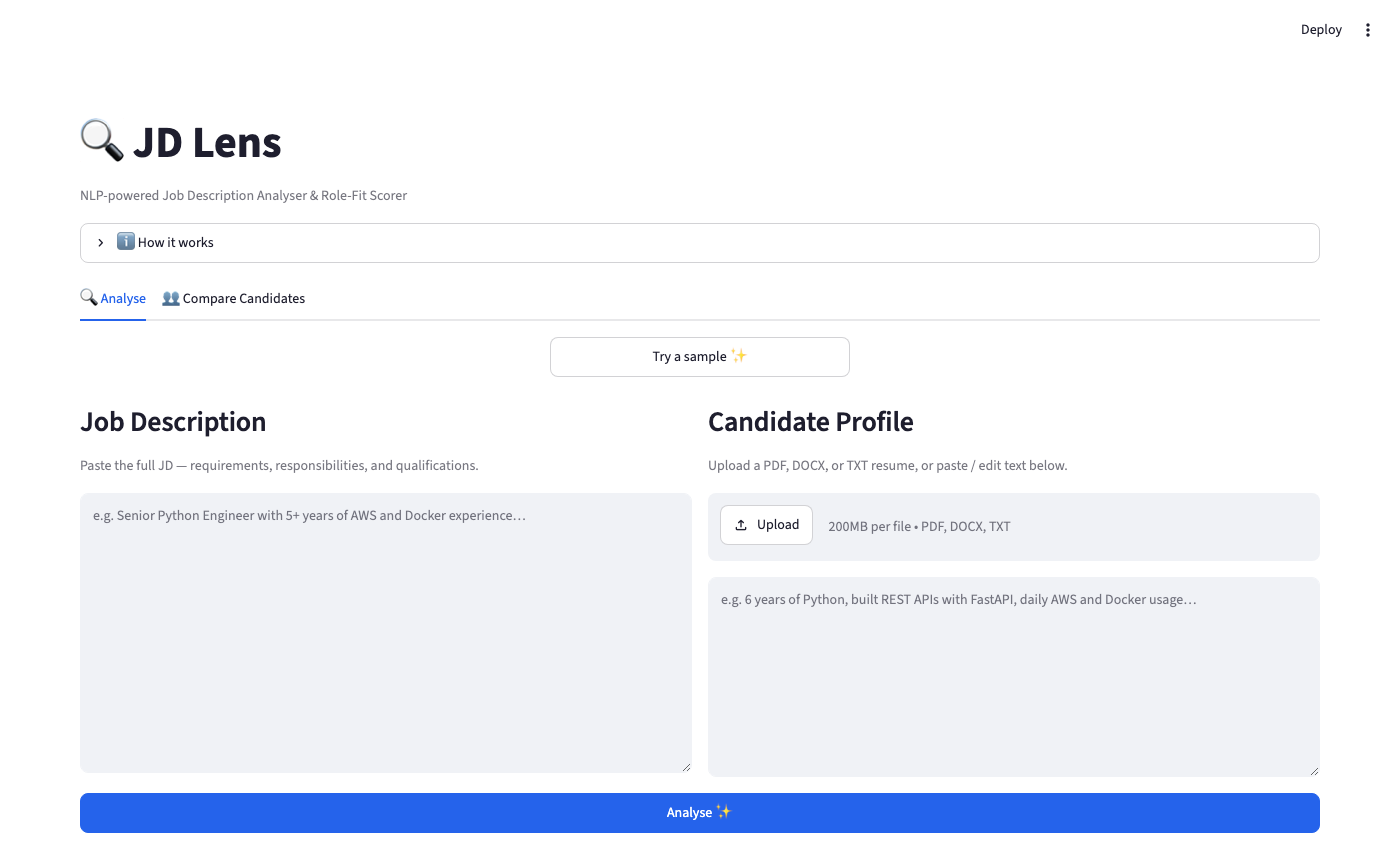
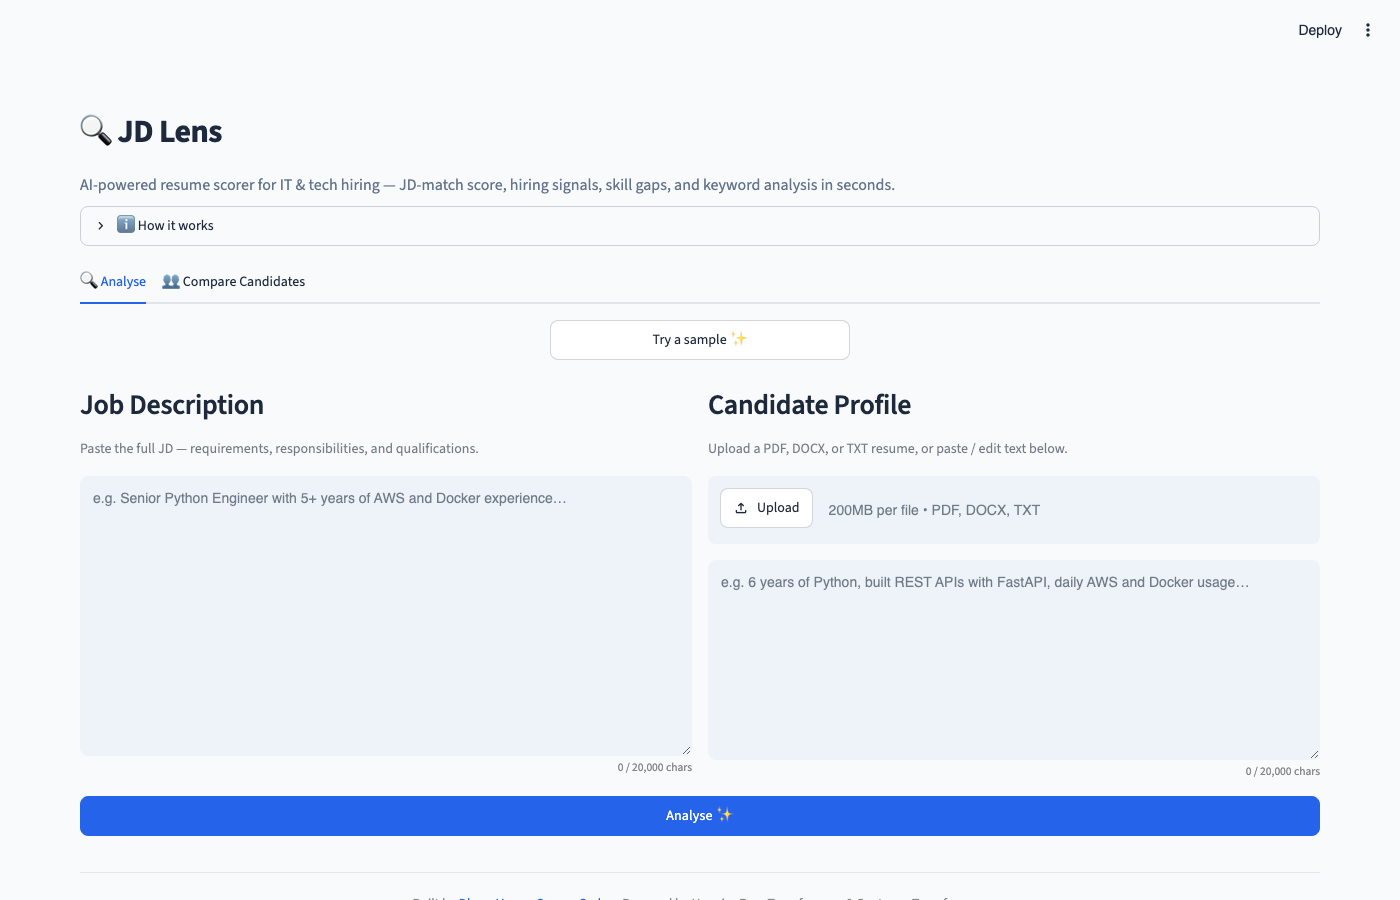
docs: rewrite README to match profile style + update home screenshot
README: aligned to GitHub profile style — centered HTML header,
flat-square badges, punchy description, compact features table,
scoring formulas as text blocks, clean architecture tree, stack line.
Fixed MD040 (code block languages) and MD060 (table spacing).

screenshot_home.png: recaptured showing current light theme, Inter
font, subtitle hero, character counters, and updated layout.

diff --git a/README.md b/README.md
@@ -1,193 +1,105 @@
-# JD Lens 🔍
+<div align="center">
+  <h1>🔍 JD Lens</h1>
+  <p>NLP-powered Job Description Analyser &amp; Role-Fit Scorer &nbsp;·&nbsp; IT / AI / Tech</p>
 
-## NLP-powered Job Description Analyser & Role-Fit Scorer for IT / AI / Tech
-
-[![CI](https://github.com/Dhyey2901/jd-lens/actions/workflows/ci.yml/badge.svg)](https://github.com/Dhyey2901/jd-lens/actions/workflows/ci.yml)
-[![Python](https://img.shields.io/badge/python-3.11%2B-blue)](https://www.python.org/)
-[![Streamlit App](https://static.streamlit.io/badges/streamlit_badge_black_white.svg)](https://jd-lens-ahnqxbthuw8t3tdr4mnuaw.streamlit.app/)
-[![License: MIT](https://img.shields.io/badge/License-MIT-yellow.svg)](LICENSE)
-
-Paste any IT/AI/tech job description and a candidate resume — JD Lens extracts structured signals, scores candidate fit, surfaces a **Hiring Signal Score** with four-quadrant prediction, and shows a side-by-side skill and keyword comparison.
-
-**🚀 Live demo: [jd-lens-ahnqxbthuw8t3tdr4mnuaw.streamlit.app](https://jd-lens-ahnqxbthuw8t3tdr4mnuaw.streamlit.app/)**
+  [![CI](https://github.com/Dhyey2901/jd-lens/actions/workflows/ci.yml/badge.svg)](https://github.com/Dhyey2901/jd-lens/actions/workflows/ci.yml)
+  [![Python](https://img.shields.io/badge/Python-3.11%2B-3776AB?style=flat-square&logo=python&logoColor=white)](https://www.python.org/)
+  [![Streamlit](https://img.shields.io/badge/Live_Demo-Streamlit-FF4B4B?style=flat-square&logo=streamlit&logoColor=white)](https://jd-lens-ahnqxbthuw8t3tdr4mnuaw.streamlit.app/)
+  [![License](https://img.shields.io/badge/License-MIT-22c55e?style=flat-square)](LICENSE)
+</div>
 
 ---
 
-## Demo
+Paste a job description and a candidate resume — JD Lens scores fit using a **3-tier hybrid model**, surfaces a **Hiring Signal Score** across 7 resume-quality dimensions, shows side-by-side skill and keyword gaps, and predicts candidate outcome in a four-quadrant verdict. Shipped with a REST API, CI/CD, eval harness, and Streamlit Cloud deployment.
+
+**Live demo: [jd-lens-ahnqxbthuw8t3tdr4mnuaw.streamlit.app](https://jd-lens-ahnqxbthuw8t3tdr4mnuaw.streamlit.app/)**
+
+---
+
+### Demo
 
 **Input** — paste or upload a JD + resume (PDF, DOCX, TXT):
 
 ![JD Lens — input screen](assets/screenshot_home.png)
 
-**Output** — fit score gauge, hiring signals, skill comparison, keyword analysis:
+**Output** — fit score, hiring signals, skill comparison, keyword analysis:
 
 ![JD Lens — results screen](assets/screenshot_results.png)
 
 ---
 
-## Features
+### How it scores
 
-| Feature | Technique | Detail |
-| --- | --- | --- |
-| **JD-Match Score** | Semantic + keyword + skill | 3-component hybrid; 0.30 × semantic + 0.30 × keyword + 0.40 × skill match |
-| **Hiring Signal Score** | 7-dimension rule-based | Impact & Metrics, Project Depth, Deployment, Verb Strength, Learning Trajectory, Soft Skills, Skill Gap — weighted by detected role type |
-| **Four-Quadrant Prediction** | Signal × JD-match axes | Strong Candidate / Overlooked Gem / Keyword Match–Verify Depth / Significant Gaps |
-| **Role-Adaptive Weights** | Keyword cluster detection | Detects: `data_engineering`, `data_analyst`, `research_ml`, `software_engineering`, `consulting`, `general` — applies role-specific dimension weights |
-| **Section-aware JD Parsing** | Header regex + multipliers | Title 3×, Required 2×, Preferred 1×, Nice-to-have 0.5× — skill frequencies normalised [0.5, 1.0] |
-| **Skill & Tool Extraction** | Regex phrase matching | 124 tools across languages, cloud, ML/AI, DevOps, databases |
-| **Unknown Tool Detection** | Context-phrase NLP | Catches tools not in core vocab via "experience with X" patterns — applied to both JD and resume |
-| **Soft Skill Coverage** | 55-term vocabulary | Two-column JD-required vs. candidate-detected view; ✓/✗ per skill |
-| **Keyword Analysis** | CountVectorizer unigrams+bigrams | Top-30 JD keywords split into matched (green) and missing (red) — visible in UI |
-| **Bullet-to-Requirement Alignment** | Sentence-transformer embeddings | Top-3 resume bullets ranked by JD relevance; each shows best-matching JD requirement sentence |
-| **Sentence Classification** | Zero-shot NLI | `facebook/bart-large-mnli` → Required / Nice-to-Have / Responsibility / Company Info |
-| **Alias Normalisation** | Dictionary substitution | sklearn → scikit-learn, postgres → postgresql, aws → aws, etc. |
-| **Result Caching** | SHA-256 in-process cache | Repeated (JD, candidate, skills) triples skip all model inference |
-| **Multi-format Upload** | PDF / DOCX / TXT | Drag-and-drop for both JD and resume inputs |
-| **Candidate Compare** | Side-by-side analysis | Score multiple candidates against one JD; sortable skill matrix |
-| **Downloadable Report** | JSON export | Full structured analysis per run |
+```text
+JD-Match  = 0.30 × semantic similarity     (sentence-transformers/all-MiniLM-L6-v2)
+          + 0.30 × keyword overlap          (TF-IDF bigram cosine + CountVectorizer top-30)
+          + 0.40 × skill match rate         (exact + 0.5 × semantic, over JD skills)
+
+Hiring    = weighted sum of 7 dimensions   (impact, depth, deployment, verbs,
+Signal      calibrated per role type        trajectory, soft skills, skill gap)
+```
+
+Four-quadrant verdict from (JD-Match × Hiring Signal): **Strong Candidate / Overlooked Gem / Keyword Match–Verify Depth / Significant Gaps**
 
 ---
 
-## Architecture
+### Features
+
+| | |
+| --- | --- |
+| **Scoring** | 3-tier hybrid · JD-adaptive dimension weights · section-aware skill weighting |
+| **Signals** | 7-dimension Hiring Signal Score · role-type detection (6 categories) · four-quadrant prediction |
+| **Extraction** | 138 known tools · context-phrase unknown tool detection (JD + resume) · 55-term soft skill vocab |
+| **Alignment** | Top-3 resume bullets ranked against JD · each bullet matched to closest JD requirement |
+| **Validation** | 5 MB file cap · 30-word minimum · 20k char limit · scanned-PDF warning |
+| **API** | FastAPI `/analyse` + `/health` · SHA-256 result cache |
+| **Quality** | 126 tests · ruff linting · GitHub Actions CI (Python 3.11 + 3.12) · eval harness with 5 gold pairs |
+
+---
+
+### Architecture
 
 ```text
 jd-lens/
-├── app.py              # Streamlit UI — tabs, charts, skill/keyword display
-├── api.py              # FastAPI REST layer — /analyse + /health endpoints
-├── config.py           # Central config — models, weights, vocabulary (KNOWN_TOOLS, SOFT_SKILLS)
-├── extractor.py        # JD signal extraction, section-aware parsing, unknown tool detection
-├── classifier.py       # Zero-shot sentence classification (HuggingFace)
-├── scorer.py           # Hybrid scorer: semantic + TF-IDF + keyword + skill match + cache
-├── signals.py          # Hiring Signal Score — 7 dimensions, role-type detection, prediction
-├── utils.py            # Multi-format document extraction (PDF, DOCX, TXT)
-├── tests/
-│   ├── test_extractor.py   # Section parsing, skill extraction, unknown tools
-│   ├── test_scorer.py      # Keyword extraction, resume section detection, TF-IDF
-│   ├── test_signals.py     # All 7 signal dimensions, role detection, skill gap scoring
-│   └── test_api.py         # FastAPI endpoint tests
-├── eval/
-│   ├── ground_truth.json   # 5 gold (JD, resume) pairs covering all 4 quadrants
-│   └── run_eval.py         # Eval harness — --fast (signals only) or full (with model)
-├── .github/workflows/
-│   └── ci.yml              # GitHub Actions — pytest + ruff on Python 3.11/3.12
-└── requirements.txt
-```
-
-### JD-Match scoring formula
-
-```text
-fit_score = 0.30 × semantic_similarity     (sentence-transformers bi-encoder cosine)
-          + 0.30 × keyword_overlap         (0.60 × TF-IDF bigram cosine
-                                          + 0.40 × CountVectorizer top-30 unigram+bigram overlap)
-          + 0.40 × skill_match_rate        (exact hit × 1.0 + semantic hit × 0.5, over JD skills)
-```
-
-When no skills are detected in the JD, the 40% skill weight redistributes proportionally to semantic and keyword so scores stay meaningful.
-
-### Hiring Signal Score
-
-```text
-hiring_signal = w1 × impact_metrics
-              + w2 × project_depth
-              + w3 × deployment_evidence
-              + w4 × action_verb_strength
-              + w5 × learning_trajectory
-              + w6 × soft_skill_coverage     (vs. JD soft skills)
-              + w7 × skill_gap_coverage      (vs. JD required skills, section-weighted)
-```
-
-Weights `w1–w7` are role-adaptive: `detect_role_type()` clusters the JD into one of 6 categories and loads the corresponding weight vector from `_ROLE_WEIGHTS`.
-
-### Four-Quadrant Prediction
-
-```text
-               JD-Match
-           Low        High
-          ┌──────────┬───────────────┐
-High      │ Overlooked│  Strong       │
-Signal    │ Gem       │  Candidate    │
-          ├──────────┼───────────────┤
-Low       │ Significant│ Keyword Match │
-Signal    │ Gaps      │ – Verify Depth│
-          └──────────┴───────────────┘
+├── app.py          Streamlit UI — tabs, gauges, skill/keyword display
+├── api.py          FastAPI REST layer
+├── scorer.py       Hybrid scorer — semantic + TF-IDF + skill match + cache
+├── signals.py      Hiring Signal Score — 7 dimensions, role detection, prediction
+├── extractor.py    JD signal extraction, section-aware parsing, unknown tool detection
+├── config.py       Models, weights, KNOWN_TOOLS (138), SOFT_SKILLS (55), limits
+├── utils.py        Multi-format document extraction (PDF, DOCX, TXT)
+├── tests/          126 unit tests across 4 test files
+└── eval/           Ground-truth eval harness (5 gold pairs, make eval-fast)
 ```
 
 ---
 
-## Quickstart
+### Quickstart
 
 ```bash
 git clone https://github.com/Dhyey2901/jd-lens.git
 cd jd-lens
-
-python -m venv .venv && source .venv/bin/activate   # Windows: .venv\Scripts\activate
+python -m venv .venv && source .venv/bin/activate
 pip install -r requirements.txt
-
 streamlit run app.py
 ```
 
-> **First run:** `facebook/bart-large-mnli` (~1.6 GB) and `all-MiniLM-L6-v2` (~80 MB) are downloaded automatically and cached in `~/.cache/huggingface/`. Subsequent runs start in seconds.
-
----
-
-## Running Tests
+> First run downloads `facebook/bart-large-mnli` (~1.6 GB) and `all-MiniLM-L6-v2` (~80 MB) into `~/.cache/huggingface/`. Subsequent starts are instant.
 
 ```bash
-# Unit tests (no model download required)
-pytest tests/ -v
-
-# Or via Makefile
-make test
-
-# Eval harness — fast mode (rule-based signals only, no model)
-make eval-fast
-
-# Eval harness — full (downloads embedding model on first run)
-make eval
+make test          # 126 unit tests
+make eval-fast     # signal-only eval, no model download
+make api           # FastAPI on http://localhost:8000
 ```
 
 ---
 
-## REST API
+### Stack
 
-```bash
-# Start the API
-make api
-# → http://localhost:8000
-
-# Health check
-curl http://localhost:8000/health
-
-# Analyse endpoint
-curl -X POST http://localhost:8000/analyse \
-  -H "Content-Type: application/json" \
-  -d '{"jd_text": "...", "candidate_text": "..."}'
-```
+`Python` `Streamlit` `FastAPI` `sentence-transformers` `HuggingFace Transformers` `scikit-learn` `Plotly` `GitHub Actions`
 
 ---
 
-## Deploying to Streamlit Cloud
-
-1. Push this repo to GitHub.
-2. Go to [share.streamlit.io](https://share.streamlit.io) → **New app** → connect repo.
-3. Set **Main file path** to `app.py`.
-4. Click **Deploy**.
-
-Streamlit Cloud installs `requirements.txt` automatically. Allow ~3 minutes for cold start while models download.
-
----
-
-## Tech Stack
-
-- [Streamlit](https://streamlit.io) — UI & deployment
-- [sentence-transformers](https://www.sbert.net/) — bi-encoder scoring + bullet alignment
-- [HuggingFace Transformers](https://huggingface.co/facebook/bart-large-mnli) — zero-shot sentence classification
-- [scikit-learn](https://scikit-learn.org/) — TF-IDF + CountVectorizer keyword extraction
-- [FastAPI](https://fastapi.tiangolo.com/) — REST API layer
-- [Plotly](https://plotly.com/python/) — interactive score charts
-
----
-
-## License
-
-MIT
+<div align="center">
+  <i>Built by <a href="https://github.com/Dhyey2901">Dhyey Vyas</a> · MSc Data Science @ RMIT</i>
+</div>
